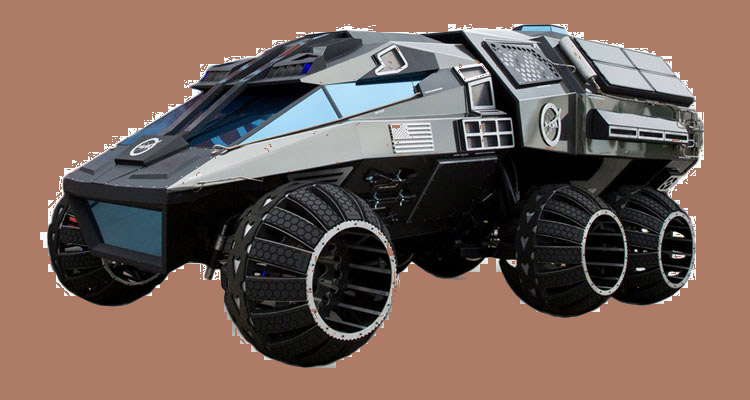
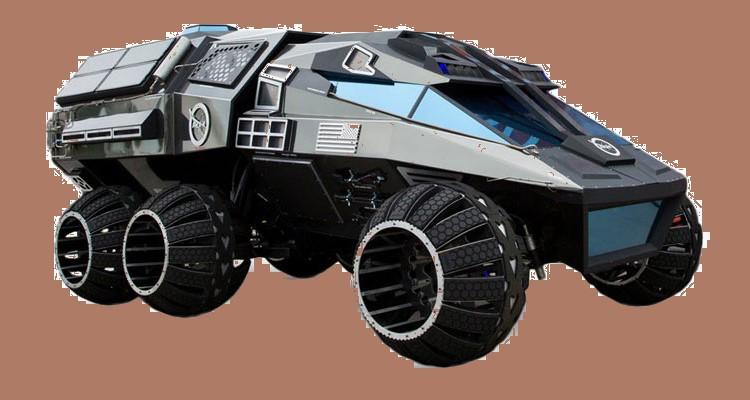
cambiaDireccionRover

diff --git a/js/main.js b/js/main.js
@@ -48,25 +48,31 @@ function moveRoverImg() {
 function pointer() {
     let i = rover.x.toString() + rover.y.toString();
     let next = "";
+    const roverImg = document.getElementById("rover");
+
     switch (rover.direction) {
         case ("N"):
             next = (rover.x - 1).toString() + rover.y.toString();
+            roverImg.style.transform = "rotate(-90deg)";
             break;
         case ("E"):
             next = rover.x.toString() + (rover.y + 1).toString();
+            roverImg.style.transform = "rotate(0deg)";
             break;
         case ("S"):
             next = (rover.x + 1).toString() + rover.y.toString();
+            roverImg.style.transform = "rotate(90deg)";
             break;
         case ("O"):
-            next = rover.x.toString() + (rover.y + 1).toString();
+            next = rover.x.toString() + (rover.y - 1).toString();
+            roverImg.style.transform = "rotateY(180deg) rotate(0deg)";
             break;
     };
 
     if (next >= 00 && next <= 99) {
         square[next].style.backgroundColor = "green";
     } else {
-        square[i].style.backgroundColor = "green";
+        square[i].style.backgroundColor = "orange";
     }
 
 };
@@ -145,7 +151,7 @@ function moveForward(rover) {
         case 'N':
             if (rover.x <= 0) {
                 document.getElementById("error").style.display = "block";
-                console.log("You can't place the rover outside the board!")
+                console.log("You can't place the rover outside the board!");
                 document.getElementById("button-container").style.display = "flex";
             } else {
                 rover.x -= 1;
@@ -155,7 +161,7 @@ function moveForward(rover) {
         case 'E':
             if (rover.y >= 9) {
                 document.getElementById("error").style.display = "block";
-                console.log("You can't place the rover outside the board!")
+                console.log("You can't place the rover outside the board!");
                 document.getElementById("button-container").style.display = "flex";
             } else {
                 rover.y += 1;
@@ -165,7 +171,7 @@ function moveForward(rover) {
         case 'S':
             if (rover.x >= 9) {
                 document.getElementById("error").style.display = "block";
-                console.log("You can't place the rover outside the board!")
+                console.log("You can't place the rover outside the board!");
                 document.getElementById("button-container").style.display = "flex";
             } else {
                 rover.x += 1;
@@ -175,7 +181,7 @@ function moveForward(rover) {
         case 'O':
             if (rover.y <= 0) {
                 document.getElementById("error").style.display = "block";
-                console.log("You can't place the rover outside the board!")
+                console.log("You can't place the rover outside the board!");
                 document.getElementById("button-container").style.display = "flex";
             } else {
                 rover.y -= 1;
@@ -193,7 +199,7 @@ function moveBackward(rover) {
         case 'N':
             if (rover.x >= 9) {
                 document.getElementById("error").style.display = "block";
-                console.log("You can't place the rover outside the board!")
+                console.log("You can't place the rover outside the board!");
                 document.getElementById("button-container").style.display = "flex";
             } else {
                 rover.x += 1;
@@ -203,7 +209,7 @@ function moveBackward(rover) {
         case 'E':
             if (rover.y <= 0) {
                 document.getElementById("error").style.display = "block";
-                console.log("You can't place the rover outside the board!")
+                console.log("You can't place the rover outside the board!");
                 document.getElementById("button-container").style.display = "flex";
             } else {
                 rover.y -= 1;
@@ -213,7 +219,7 @@ function moveBackward(rover) {
         case 'S':
             if (rover.x <= 0) {
                 document.getElementById("error").style.display = "block";
-                console.log("You can't place the rover outside the board!")
+                console.log("You can't place the rover outside the board!");
                 document.getElementById("button-container").style.display = "flex";
             } else {
                 rover.x -= 1;
@@ -224,7 +230,7 @@ function moveBackward(rover) {
             if (rover.y >= 9) {
                 document.getElementById("error").style.display = "block";
                 document.getElementById("button-container").style.display = "flex";
-                console.log("You can't place the rover outside the board!")
+                console.log("You can't place the rover outside the board!");
                 document.getElementById("button-container").style.display = "flex";
             } else {
                 rover.y += 1;
@@ -248,7 +254,9 @@ function moveRover(parameter) {
         } else if (parameter[i] === 'l') {
             turnLeft(rover);
         } else {
-            continue;
+            document.getElementById("error2").style.display = "block";
+            console.log("You can only use the letters 'fbrl'! Try again");
+            document.getElementById("button-container").style.display = "flex";
         }
     }
 };
@@ -267,7 +275,7 @@ function result() {
         document.getElementById("play-again").style.display = "block";
         document.getElementById("flag").remove();
     } else if (clicks >= 3) {
-        document.getElementById("lost").innerHTML = "Mars is too far and you lost conection. You lost millons of dollars for your incompetence!";
+        document.getElementById("lost").innerHTML = "You lost the conection with the rover and with it millons of dollars. You are fired!";
         document.getElementById("lost").style.display = "block";
         document.getElementById("button-container").style.display = "flex";
     }
@@ -277,6 +285,7 @@ function result() {
 
 document.getElementById("keep-trying").addEventListener("click", function() {
     document.getElementById("error").style.display = "none";
+    document.getElementById("error2").style.display = "none";
     document.getElementById("lost").style.display = "none";
     document.getElementById("button-container").style.display = "none";
 });
@@ -286,6 +295,7 @@ document.getElementById("play-again").addEventListener("click", playAgain);
 
 function playAgain() {
     document.getElementById("error").style.display = "none";
+    document.getElementById("error2").style.display = "none";
     document.getElementById("lost").style.display = "none";
     document.getElementById("win").style.display = "none";
     document.getElementById("button-container").style.display = "none";
@@ -296,6 +306,7 @@ function playAgain() {
     moveRoverImg();
     gridColor();
     rover.travelLog = [];
+    clicks = 0;
 }
 
 // Input field
@@ -310,13 +321,12 @@ document.getElementById("button").addEventListener("click", function() {
     input.unshift(document.getElementById("answer").value);
 
     gridColor();
-    moveRover(input[0]);
+    moveRover(input[0].toLowerCase());
     moveRoverImg();
+    paintTrail();
     pointer();
     document.getElementById("answer").value = "";
-    paintTrail();
     clicks++;
     result();
 
-    console.log(rover.travelLog);
 });

diff --git a/index.html b/index.html
@@ -5,14 +5,14 @@
     <meta charset="UTF-8">
     <meta name="viewport" content="width=device-width, initial-scale=1.0">
     <link rel="stylesheet" href="css/style.css">
-    <title>Mars rover</title>
+    <title>Mars rover kata challenge</title>
 </head>
 
 <body>
 
     <div id="instructions">
         <p>You are the main engineer of the Mars Rover Project in the Space Agency.</p>
-        <p>Your task today is get the Mars Rover to the flag in the other corner of the board</p>
+        <p>Your task today is get the Mars Rover to the flag in the opposite corner of the board</p>
         <p>To do so you have to write down some instructions in the field at the bottom of the board</p>
         <p>Your instructions could be:</p>
         <ul>
@@ -61,7 +61,9 @@
         <div class="square" id="22"></div>
         <div class="square" id="23"></div>
         <div class="square" id="24"></div>
-        <div class="square" id="25"></div>
+        <div class="square" id="25">
+            <img src="img/crater.jpg" alt="crater">
+        </div>
         <div class="square" id="26"></div>
         <div class="square" id="27"></div>
         <div class="square" id="28"></div>
@@ -167,6 +169,7 @@
         </div>
 
         <h2 id="error">You can't place the rover outside the board!</h2>
+        <h2 id="error2">You can only use the commands 'f', 'b', 'r' or 'l'! Try again</h2>
         <h2 id="lost"></h2>
         <h2 id="win"></h2>
         <div id="button-container">

diff --git a/css/style.css b/css/style.css
@@ -42,6 +42,10 @@ li {
     margin-top: 23.33%;
 }
 
+#rover {
+    transform: rotate(-90deg);
+}
+
 #flag {
     margin: 5px;
     height: 50px;
@@ -82,6 +86,7 @@ form #button {
 }
 
 #error,
+#error2,
 #lost,
 #win {
     display: none;
@@ -91,7 +96,8 @@ form #button {
     text-align: center;
 }
 
-#error {
+#error,
+#error2 {
     font-size: 3rem;
     top: 25%;
     left: 0;
